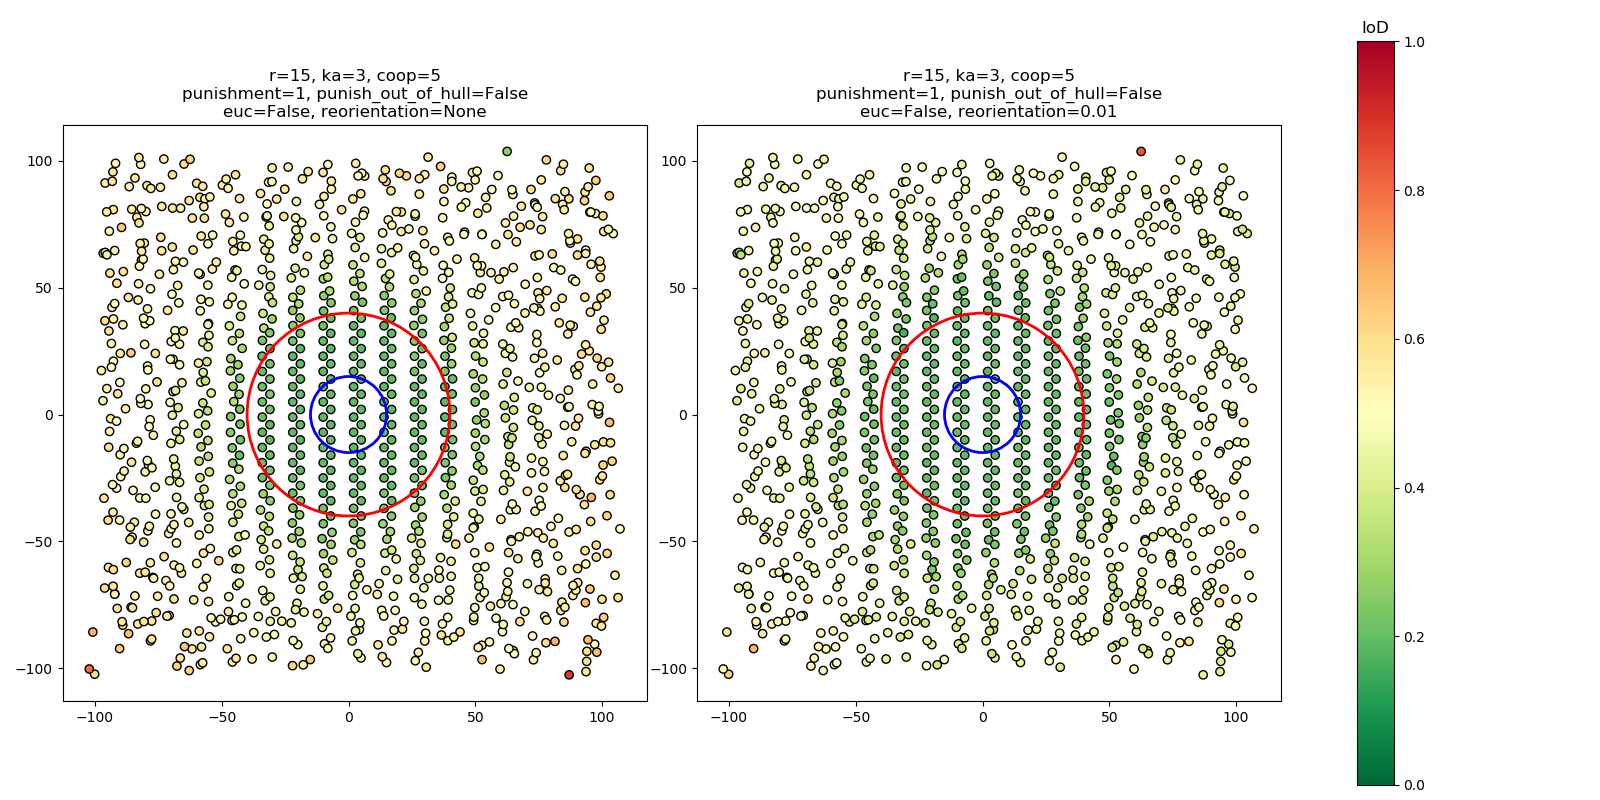
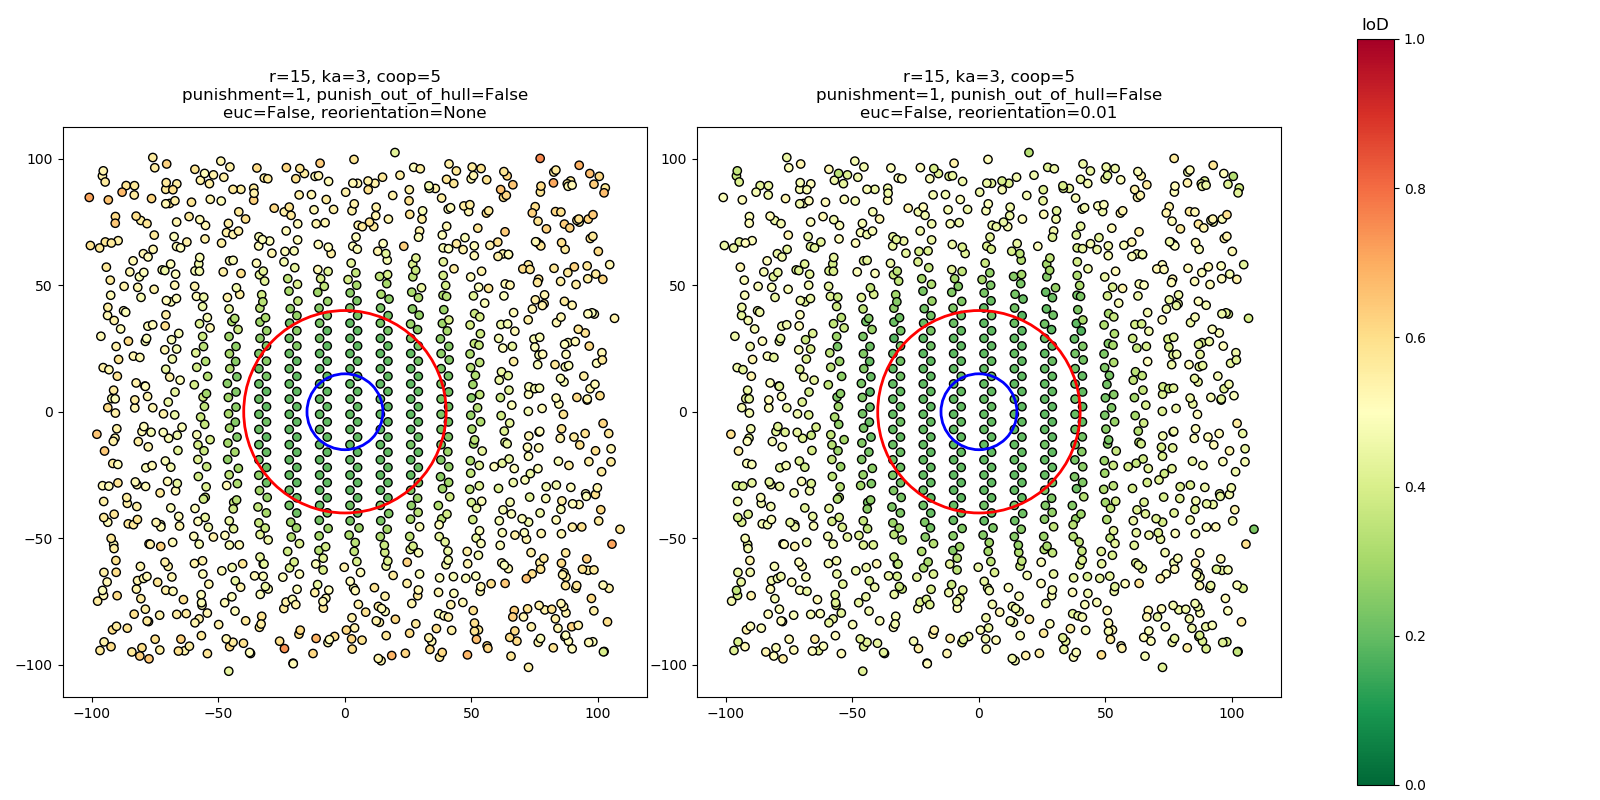
no message

diff --git a/figure_generation.py b/figure_generation.py
@@ -27,7 +27,7 @@ grids = []
 names = []
 params = []
 
-"""
+
 working = square_grid
 working = peturb_gradational(working, pet_gradient, pet_radius)
 grids.append(working)
@@ -117,8 +117,7 @@ params.append({'neighbor_search_dist': 15,
                'punishment': 1,
                'punish_out_of_hull': False,
                'euc': False,
-               'reorientation': 10e-2})
-
+               'reorientation': 10e-3})
 
 working = rect_grid
 working2 = translate(rect_grid, 3, 3)
@@ -164,7 +163,6 @@ params.append({'neighbor_search_dist': 15,
                'punish_out_of_hull': False,
                'euc': False,
                'reorientation': 10e-3})
-"""
 
 working = stamp_pattern(stamp, 8, 8, 100, 100, flip=False, rotate_by=2)
 working = peturb_gradational(working, pet_gradient, pet_radius)
@@ -175,9 +173,9 @@ params.append({'neighbor_search_dist': 20,
                'coop': 5,
                'punishment': 1,
                'punish_out_of_hull': False,
-               'euc': True,
+               'euc': False,
                'reorientation': 10e-3})
-"""
+
 working = stamp_pattern(stamp, 8, 8, 100, 100, flip=False, rotate_by=0)
 working = peturb_gradational(working, pet_gradient, pet_radius)
 grids.append(working)
@@ -188,8 +186,7 @@ params.append({'neighbor_search_dist': 20,
                'punishment': 1,
                'punish_out_of_hull': False,
                'euc': False,
-               'reorientation': None})
-"""
+               'reorientation': 10e-3})
 
 
 for pts, name, pars in zip(grids, names, params):
